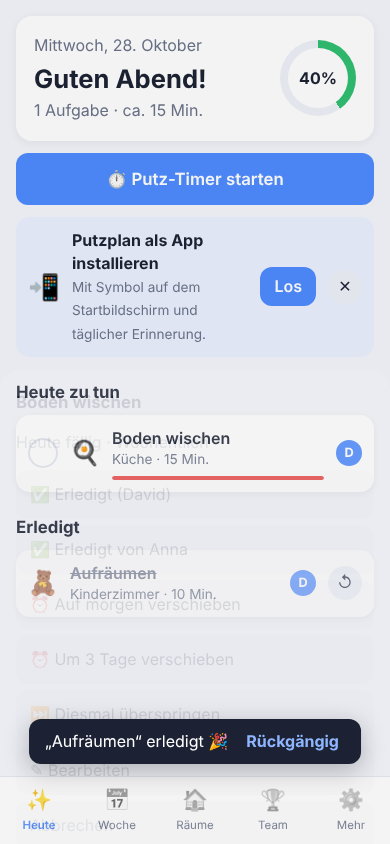
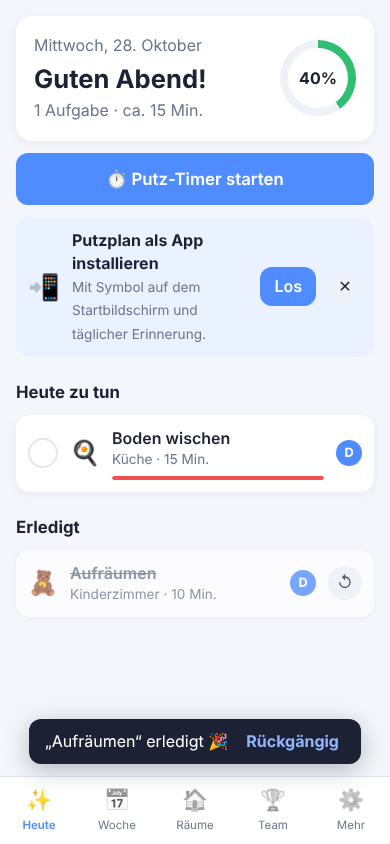
Folgeaufgaben: z. B. Wäsche abnehmen am Tag nach dem Aufhängen
- Aufgaben können eine Folgeaufgabe auslösen (selber Tag bis +3 Tage),
  einstellbar im Bearbeiten-Dialog
- „Wäsche … aufhängen“ bekommt automatisch „Wäsche abnehmen“ am
  nächsten Tag – auch für bestehende Aufgaben und im Timer angelegte
- Fällige Folgeaufgaben stehen immer ganz oben, auch an freien Tagen;
  der Wochenplan simuliert sie mit
- Rückgängig und Überspringen berücksichtigen Folgeaufgaben

Claude-Session: https://claude.ai/code/session_01XMRwihCqj6pxSxLTqxJVWF

diff --git a/app.js b/app.js
@@ -35,6 +35,10 @@
   }
 
   let state = load();
+  if (!state.settings.autoFollowUps) {
+    state.settings.autoFollowUps = true;
+    state.tasks.slice().forEach((t) => autoFollowUp(t));
+  }
   let ui = { tab: 'today', roomId: null, showMore: false };
 
   function save() {
@@ -70,6 +74,39 @@
     return state.history.filter((h) => h.day === d && !h.skipped).map((h) => h.taskId);
   }
 
+  // ---------------------------------------------------------------- Folgeaufgaben
+  //
+  // Eine Aufgabe kann eine Folgeaufgabe auslösen, z. B. „Wäsche aufhängen“ →
+  // am nächsten Tag „Wäsche abnehmen“. Die Folgeaufgabe hat kein eigenes
+  // Intervall; sie wird fällig, sobald die auslösende Aufgabe erledigt ist.
+
+  const followUpsOf = (taskId) => state.tasks.filter((t) => t.trigger && t.trigger.afterTaskId === taskId);
+  const DELAY_LABELS = ['Am selben Tag', 'Am nächsten Tag', 'Nach 2 Tagen', 'Nach 3 Tagen'];
+
+  function setFollowUp(parent, name, delayDays) {
+    const existing = followUpsOf(parent.id)[0];
+    if (!name) {
+      if (existing) state.tasks = state.tasks.filter((t) => t.id !== existing.id);
+      return;
+    }
+    if (existing) {
+      existing.name = name;
+      existing.trigger.delayDays = delayDays;
+      return;
+    }
+    state.tasks.push({
+      id: uid(), roomId: parent.roomId, name, interval: parent.interval, minutes: 10,
+      lastDone: null, assignee: parent.assignee || null, paused: false, snoozedUntil: null,
+      trigger: { afterTaskId: parent.id, delayDays }, dueOn: null, oneOff: parent.oneOff || undefined,
+    });
+  }
+
+  // Bekannte Paare, die automatisch eingerichtet werden.
+  function autoFollowUp(t) {
+    if (t.trigger || followUpsOf(t.id).length) return;
+    if (/w(ä|ae)sche.*aufh(ä|ae)ng/i.test(t.name)) setFollowUp(t, 'Wäsche abnehmen', 1);
+  }
+
   // ---------------------------------------------------------------- Helfer
 
   function esc(s) {
@@ -99,6 +136,10 @@
 
   function dueText(t) {
     if (t.paused) return 'Pausiert';
+    if (t.trigger && (t.dueOn === null || t.dueOn === undefined)) {
+      const parent = task(t.trigger.afterTaskId);
+      return parent ? `Kommt nach „${parent.name}“` : 'Wartet';
+    }
     const today = S.today();
     if (t.snoozedUntil && t.snoozedUntil > today) return `Verschoben auf ${dayLabel(t.snoozedUntil)}`;
     const diff = S.dueDay(t) - today;
@@ -162,6 +203,10 @@
       entry.prevDurations = t.durations ? t.durations.slice() : null;
       S.recordDuration(t, o.actualMs / MIN);
     }
+    // Folgeaufgaben auslösen bzw. die erledigte Folgeaufgabe zurücksetzen.
+    entry.followUps = followUpsOf(t.id).map((f) => ({ id: f.id, prev: f.dueOn ?? null }));
+    for (const f of followUpsOf(t.id)) f.dueOn = day + (f.trigger.delayDays || 0);
+    if (t.trigger) { entry.prevDueOn = t.dueOn ?? null; t.dueOn = null; }
     if (t.oneOff) {
       // Einmalige Aufgabe: nach dem Erledigen archivieren (bleibt für den Verlauf erhalten).
       entry.oneOff = true;
@@ -180,6 +225,7 @@
   function skipTask(taskId) {
     const t = task(taskId);
     const entry = { id: uid(), taskId, day: S.today(), memberId: null, minutes: 0, skipped: true, prevLastDone: t.lastDone, prevSnoozed: t.snoozedUntil || null };
+    if (t.trigger) { entry.prevDueOn = t.dueOn ?? null; t.dueOn = null; }
     state.history.push(entry);
     t.lastDone = S.today();
     t.snoozedUntil = null;
@@ -204,6 +250,11 @@
     if (t) {
       t.lastDone = h.prevLastDone;
       t.snoozedUntil = h.prevSnoozed;
+      if (h.prevDueOn !== undefined) t.dueOn = h.prevDueOn;
+      for (const f of h.followUps || []) {
+        const ft = task(f.id);
+        if (ft) ft.dueOn = f.prev;
+      }
       if (h.oneOff) {
         t.archived = false;
         t.paused = false;
@@ -344,7 +395,8 @@
     const today = S.today();
     const exclude = new Set(excludeIds.concat(doneTodayIds()));
     return state.tasks
-      .filter((t) => !t.paused && !t.archived && !exclude.has(t.id) && !S.robotHandles(t, state.settings))
+      .filter((t) => !t.paused && !t.archived && !exclude.has(t.id) && !S.robotHandles(t, state.settings)
+        && !(t.trigger && (t.dueOn === null || t.dueOn === undefined)))
       .sort((a, b) => S.urgency(b, today) - S.urgency(a, today));
   }
 
@@ -459,6 +511,7 @@
         };
         if (!interval) t.oneOff = true;
         state.tasks.push(t);
+        autoFollowUp(t);
         closeModal();
         onCreated(t.id);
       };
@@ -756,6 +809,7 @@
         id: uid(), roomId: r.id, name, interval, minutes,
         lastDone: today - Math.round(interval * frac), assignee: null, paused: false, snoozedUntil: null,
       });
+      autoFollowUp(state.tasks[state.tasks.length - 1]);
     });
     return r;
   }
@@ -925,7 +979,7 @@
           <button class="check" data-action="complete" data-id="${t.id}" data-member="${t.assignee || ''}" title="Jetzt erledigt"></button>
           <div class="row-main" data-action="edit-task" data-id="${t.id}">
             <div class="row-title">${esc(t.name)}</div>
-            <div class="row-sub">${intervalLabel(t.interval)} · ${minutesLabel(t)} · <span class="${overdue ? 'bad-text' : ''}">${dueText(t)}</span></div>
+            <div class="row-sub">${t.trigger ? '↪ Folgeaufgabe' : intervalLabel(t.interval)} · ${minutesLabel(t)} · <span class="${overdue ? 'bad-text' : ''}">${dueText(t)}</span></div>
             <div class="dirt"><span style="width:${Math.min(100, u * 100)}%;background:${dirtColor(u)}"></span></div>
           </div>
           ${avatar(member(t.assignee))}
@@ -1109,6 +1163,17 @@
     });
   }
 
+  function followUpFields(t) {
+    const f = t.id ? followUpsOf(t.id)[0] : null;
+    const delay = f ? f.trigger.delayDays : 1;
+    return `<details class="follow" ${f ? 'open' : ''}>
+        <summary>↪ Folgeaufgabe ${f ? `: ${esc(f.name)}` : '(optional)'}</summary>
+        <p class="small muted">Wird fällig, nachdem du diese Aufgabe erledigt hast – z. B. „Wäsche abnehmen“ nach „Wäsche aufhängen“.</p>
+        <label>Danach zu tun<input class="input" name="followName" value="${f ? esc(f.name) : ''}" placeholder="z. B. Wäsche abnehmen"></label>
+        <label>Fällig<select class="input" name="followDelay">${DELAY_LABELS.map((l, i) => `<option value="${i}" ${i === delay ? 'selected' : ''}>${l}</option>`).join('')}</select></label>
+      </details>`;
+  }
+
   function editTask(taskId, roomId) {
     const t = taskId ? task(taskId) : { name: '', interval: 7, minutes: 10, roomId, assignee: null, paused: false };
     const presetMatch = T.INTERVALS.some(([d]) => d === t.interval);
@@ -1117,10 +1182,14 @@
       <form id="task-form" class="form">
         <label>Was ist zu tun?<input class="input" name="name" required value="${esc(t.name)}" placeholder="z. B. Fenster putzen"></label>
         <label>Raum<select class="input" name="roomId">${state.rooms.map((r) => `<option value="${r.id}" ${r.id === t.roomId ? 'selected' : ''}>${r.icon} ${esc(r.name)}</option>`).join('')}</select></label>
+        ${t.trigger ? `
+        <input type="hidden" name="intervalPreset" value="${t.interval}">
+        <p class="small learned">↪ Folgeaufgabe von „${esc((task(t.trigger.afterTaskId) || { name: '?' }).name)}“ – wird fällig, sobald diese erledigt ist.</p>
+        <label>Fällig<select class="input" name="delay">${DELAY_LABELS.map((l, i) => `<option value="${i}" ${i === t.trigger.delayDays ? 'selected' : ''}>${l}</option>`).join('')}</select></label>` : `
         <label>Wie oft?<select class="input" name="intervalPreset">
           ${T.INTERVALS.map(([d, l]) => `<option value="${d}" ${d === t.interval ? 'selected' : ''}>${l}</option>`).join('')}
           <option value="custom" ${presetMatch ? '' : 'selected'}>Eigenes Intervall…</option></select></label>
-        <label class="custom-interval" ${presetMatch ? 'hidden' : ''}>Alle … Tage<input class="input" type="number" min="1" max="730" name="interval" value="${t.interval}"></label>
+        <label class="custom-interval" ${presetMatch ? 'hidden' : ''}>Alle … Tage<input class="input" type="number" min="1" max="730" name="interval" value="${t.interval}"></label>`}
         <label>Dauer (Minuten)<input class="input" type="number" min="1" max="480" name="minutes" value="${t.minutes}"></label>
         ${t.learnedMinutes ? `<p class="small learned">⏱ Gelernt aus ${t.durations.length} Messung${t.durations.length === 1 ? '' : 'en'}: du brauchst ca. <strong>${fmtMinutes(t.learnedMinutes)}</strong>.
           Der Plan rechnet damit. Änderst du die Dauer oben, wird neu gelernt.</p>` : ''}
@@ -1128,7 +1197,8 @@
           ${[['', 'Keine Bodenaufgabe'], ['vacuum', 'Staubsaugen (Saugroboter)'], ['mop', 'Boden wischen (Wischroboter)']]
             .map(([v, l]) => `<option value="${v}" ${S.floorType(t) === v ? 'selected' : ''}>${l}</option>`).join('')}</select></label>` : ''}
         ${state.members.length ? `<label>Zuständig<select class="input" name="assignee">${memberOptions(t.assignee, 'Automatisch verteilen')}</select></label>` : ''}
-        ${taskId ? `<label class="check-label"><input type="checkbox" name="paused" ${t.paused ? 'checked' : ''}> Pausieren (z. B. im Urlaub)</label>` : `
+        ${t.trigger ? '' : followUpFields(t)}
+        ${taskId ? `<label class="check-label"><input type="checkbox" name="paused" ${t.paused ? 'checked' : ''}> Pausieren (z. B. im Urlaub)</label>` : t.trigger ? '' : `
           <label>Zuletzt erledigt<select class="input" name="last">
             <option value="0">Gerade eben</option><option value="half" selected>Ist mal wieder dran</option><option value="due">Sofort fällig</option></select></label>`}
         <div class="btn-row">
@@ -1139,13 +1209,15 @@
       </form>`, (el) => {
       const form = el.querySelector('form');
       form.intervalPreset.onchange = () => {
-        el.querySelector('.custom-interval').hidden = form.intervalPreset.value !== 'custom';
+        const custom = el.querySelector('.custom-interval');
+        if (custom) custom.hidden = form.intervalPreset.value !== 'custom';
       };
       el.querySelector('[data-cancel]').onclick = closeModal;
       const del = el.querySelector('[data-del]');
       if (del) del.onclick = () => {
         if (!confirm(`„${t.name}“ wirklich löschen?`)) return;
-        state.tasks = state.tasks.filter((x) => x.id !== taskId);
+        const follow = new Set(followUpsOf(taskId).map((f) => f.id));
+        state.tasks = state.tasks.filter((x) => x.id !== taskId && !follow.has(x.id));
         save(); closeModal(); render();
       };
       form.onsubmit = (ev) => {
@@ -1160,13 +1232,23 @@
         };
         if (!data.name) return;
         if (form.floor) data.floor = form.floor.value;
+        let saved = t;
         if (taskId) {
           if (data.minutes !== t.minutes) { delete t.learnedMinutes; delete t.durations; }
           Object.assign(t, data, { paused: form.paused.checked });
+          if (t.trigger && form.delay) t.trigger.delayDays = parseInt(form.delay.value, 10) || 0;
         } else {
           const today = S.today();
           const last = form.last.value === '0' ? today : form.last.value === 'due' ? today - data.interval : today - Math.ceil(data.interval / 2);
-          state.tasks.push(Object.assign({ id: uid(), lastDone: last, paused: false, snoozedUntil: null }, data));
+          saved = Object.assign({ id: uid(), lastDone: last, paused: false, snoozedUntil: null }, data);
+          state.tasks.push(saved);
+        }
+        if (form.followName) {
+          const fname = form.followName.value.trim();
+          const hadFollowUp = followUpsOf(saved.id).length > 0;
+          if (fname || hadFollowUp) setFollowUp(saved, fname, parseInt(form.followDelay.value, 10) || 0);
+          // Neue Aufgabe ohne eigene Angabe: bekannte Paare (Wäsche aufhängen → abnehmen) einrichten.
+          else if (!taskId) autoFollowUp(saved);
         }
         save(); closeModal(); render();
       };

diff --git a/scheduler.js b/scheduler.js
@@ -37,13 +37,26 @@
     return (((day + 3) % 7) + 7) % 7;
   }
 
+  /**
+   * Folgeaufgaben (z. B. „Wäsche abnehmen“ nach „Wäsche aufhängen“) haben kein festes
+   * Intervall: Sie werden fällig, wenn ihre Auslöser-Aufgabe erledigt wurde
+   * (task.trigger = { afterTaskId, delayDays }, task.dueOn = Fälligkeitstag oder null).
+   * Ab dem Fälligkeitstag sind sie dringender als alles andere.
+   */
+  function followUpUrgency(dueOn, day) {
+    if (dueOn === null || dueOn === undefined || day < dueOn) return 0;
+    return 2 + (day - dueOn);
+  }
+
   function urgency(task, day, lastDone) {
+    if (task.trigger) return followUpUrgency(task.dueOn, day);
     const last = lastDone !== undefined ? lastDone : task.lastDone;
     if (last === null || last === undefined) return 1;
     return Math.max(0, (day - last) / Math.max(1, task.interval));
   }
 
   function dueDay(task) {
+    if (task.trigger) return task.dueOn === null || task.dueOn === undefined ? Infinity : task.dueOn;
     if (task.lastDone === null || task.lastDone === undefined) return today();
     return task.lastDone + task.interval;
   }
@@ -155,6 +168,14 @@
     const settings = state.settings || {};
     const done = new Set(doneToday || []);
     const sim = new Map(tasks.map((t) => [t.id, t.lastDone]));
+    // Fälligkeit der Folgeaufgaben in der Simulation – und wer wen auslöst.
+    const simDue = new Map(tasks.filter((t) => t.trigger).map((t) => [t.id, t.dueOn]));
+    const followUps = new Map();
+    for (const t of tasks) {
+      if (!t.trigger) continue;
+      if (!followUps.has(t.trigger.afterTaskId)) followUps.set(t.trigger.afterTaskId, []);
+      followUps.get(t.trigger.afterTaskId).push(t);
+    }
     const weekLoad = {};
     const plan = [];
 
@@ -170,7 +191,8 @@
 
       const eligible = tasks.filter((t) => isPlannable(t, day, settings) && !(i === 0 && done.has(t.id)));
       const scored = eligible
-        .map((t) => ({ task: t, u: urgency(t, day, sim.get(t.id)) }))
+        .map((t) => ({ task: t, u: t.trigger ? followUpUrgency(simDue.get(t.id), day) : urgency(t, day, sim.get(t.id)) }))
+        .filter((e) => !e.task.trigger || e.u > 0)
         .sort((a, b) => b.u - a.u || a.task.interval - b.task.interval);
 
       let used = 0;
@@ -183,10 +205,15 @@
         items.push({ task: entry.task, urgency: entry.u, memberId, early: entry.u < 1 });
         used += estimate(entry.task);
         sim.set(entry.task.id, day);
+        if (entry.task.trigger) simDue.set(entry.task.id, null);
+        for (const f of followUps.get(entry.task.id) || []) simDue.set(f.id, day + (f.trigger.delayDays || 0));
       };
 
+      // 0. Fällige Folgeaufgaben kommen immer dran – auch an freien Tagen (die Wäsche muss ab).
+      for (const e of scored) if (e.task.trigger) take(e);
       // 1. Fällige Aufgaben nach Dringlichkeit.
       for (const e of scored) {
+        if (e.task.trigger) continue;
         if (e.u < 1) break;
         // Tägliche Aufgaben passen immer rein – sie wären sonst sofort wieder fällig.
         if (budget <= 0) break;
@@ -194,7 +221,7 @@
       }
       // 2. Freie Zeit mit bald fälligen Aufgaben füllen.
       for (const e of scored) {
-        if (e.u >= 1 || e.u < PREFILL_THRESHOLD) continue;
+        if (e.task.trigger || e.u >= 1 || e.u < PREFILL_THRESHOLD) continue;
         if (e.task.interval < 3) continue; // Kurze Intervalle lohnen sich nicht vorzuziehen.
         if (used + estimate(e.task) <= budget) take(e);
       }

diff --git a/tests/scheduler.test.js b/tests/scheduler.test.js
@@ -163,3 +163,27 @@ test('Roboter übernimmt Boden-Aufgaben – außer in ausgenommenen Räumen', ()
   // Roboter-Aufgaben zählen nicht in die Sauberkeit des Raums.
   assert.strictEqual(S.roomCleanliness([tasks[0]], MONDAY, settings), 100);
 });
+
+test('Folgeaufgabe: Wäsche abnehmen am Tag nach dem Aufhängen', () => {
+  const tasks = [
+    mkTask('auf', 3, 10, MONDAY - 3, { name: 'Wäsche aufhängen' }),
+    mkTask('ab', 365, 10, null, { name: 'Wäsche abnehmen', trigger: { afterTaskId: 'auf', delayDays: 1 }, dueOn: null }),
+  ];
+  const plan = S.planDays(state(tasks), MONDAY, 5);
+  const ids = plan.map((d) => d.items.map((i) => i.task.id).join(','));
+  // Mo aufhängen, Di abnehmen, Do wieder aufhängen, Fr abnehmen
+  assert.deepStrictEqual(ids, ['auf', 'ab', '', 'auf', 'ab']);
+});
+
+test('Folgeaufgabe: ohne Auslöser nie fällig, danach dringender als alles andere', () => {
+  const ab = mkTask('ab', 365, 10, null, { trigger: { afterTaskId: 'auf', delayDays: 1 }, dueOn: null });
+  assert.strictEqual(S.urgency(ab, MONDAY), 0);
+  assert.strictEqual(S.dueDay(ab), Infinity);
+  ab.dueOn = MONDAY;
+  const tasks = [mkTask('x', 7, 30, MONDAY - 20), ab];
+  // Auch am freien Sonntag (Budget 0) steht die Folgeaufgabe auf dem Plan.
+  const [sunday] = S.planDays(state(tasks), MONDAY + 6, 1);
+  assert.deepStrictEqual(sunday.items.map((i) => i.task.id), ['ab']);
+  const [monday] = S.planDays(state(tasks), MONDAY, 1);
+  assert.strictEqual(monday.items[0].task.id, 'ab');
+});

diff --git a/styles.css b/styles.css
@@ -320,3 +320,9 @@ h2 { font-size: 1.05rem; margin: 1.4em 0 0.6em; }
 .pick-list { margin: 10px 0 4px; max-height: 50vh; overflow: auto; }
 .pick-row { cursor: pointer; box-shadow: none; background: var(--surface-2); }
 .modal .input[type="search"] { margin-top: 10px; }
+
+/* Folgeaufgaben */
+details.follow { background: var(--surface-2); border-radius: 12px; padding: 8px 12px; }
+details.follow summary { cursor: pointer; font-weight: 600; color: var(--text); }
+details.follow[open] { display: grid; gap: 8px; }
+details.follow p { margin: 0; }

diff --git a/templates.js b/templates.js
@@ -89,8 +89,8 @@
     {
       key: 'laundry', name: 'Waschküche', icon: '🧺',
       tasks: [
-        ['Wäsche waschen', 3, 10],
-        ['Wäsche zusammenlegen', 3, 15],
+        ['Wäsche waschen & aufhängen', 3, 15], // Folgeaufgabe „Wäsche abnehmen“ kommt automatisch dazu
+        ['Wäsche zusammenlegen & wegräumen', 3, 15],
         ['Waschmaschine reinigen', 60, 15],
       ],
     },

diff --git a/README.md b/README.md
@@ -13,6 +13,8 @@ verteilt die Arbeit nach deinem Zeitbudget auf die Woche und sagt dir jeden Tag,
   dringendere tauschen – die getauschte Aufgabe wandert auf morgen.
 - **Saug- & Wischroboter** – einschalten, und Staubsaugen bzw. Boden wischen fallen aus dem Plan (pro Raum
   abwählbar). Dafür kommen Wartungsaufgaben wie „Staubbehälter leeren“ oder „Wassertank auffüllen“ dazu.
+- **Folgeaufgaben** – z. B. nach „Wäsche aufhängen“ steht am nächsten Tag „Wäsche abnehmen“ auf dem Plan
+  (wird automatisch eingerichtet; für jede Aufgabe im Bearbeiten-Dialog frei festlegbar).
 - **Automatischer Wochenplan** – Aufgaben werden nach Dringlichkeit auf die nächsten 7 Tage verteilt.
   Ist ein Tag voll, rutscht der Rest auf den nächsten Tag; bleibt Zeit übrig, werden bald fällige Aufgaben vorgezogen.
 - **Zeitbudget pro Wochentag** – z. B. 20 Min. unter der Woche, 1 Std. am Samstag, Sonntag frei.
